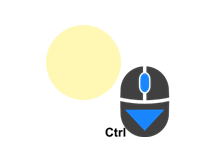
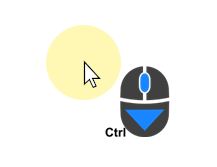
Improve README, add cursors

Changed region(s): [[0.3594, 0.3593, 0.47, 0.5389]]

diff --git a/README.md b/README.md
@@ -5,7 +5,7 @@ Displays Keystrokes in an overlay window and visualize mouse clicks.
 
 # Features
 
- - Displays special keys (volume up: 🔊⏫) and shortcuts
+ - Displays special keys (e.g. volume up: 🔊) and shortcuts
  - Visually indicate mouse cursor position
  - Visually indicate pressed buttons
  - Click Through
@@ -53,7 +53,6 @@ Requirements: Windows 10
 	<img src="https://raw.githubusercontent.com/Phaiax/Key-n-Stroke/master/Screenshots/settings.png">
 </a>
 
-2021-03-01: I've bought a certificate. An update is on the way.
 
 ## Releases
 
@@ -81,12 +80,11 @@ This app is Open Source. If you miss a feature, write an issue or go for it and 
 
 # Donations and Financial
 
-You can donate via <a href="https://www.paypal.me/phaiax">paypal.me/phaiax</a>, send Bitcoins (`1JWER55pheUeJzaUcqaYwP8ZaGe5C16Rp9`) or Stellar Lumens (`phaiax*keybase.io`) [^1]
-
-[^1]: You can verify the wallet addresses cryptographically on <a href="https://keybase.io/phaiax">keybase.io/phaiax</a>. Add the message "pkfs" or "keynstroke" to the payment so I can associate it with this project. After funds for the next six years of developer certificates are raised (which I assume will never happen), I will use any additional funds to buy and eat icecream for myself and anyone I like.
+You can donate via <a href="https://www.paypal.me/phaiax">paypal.me/phaiax</a>, send Bitcoins (`1JWER55pheUeJzaUcqaYwP8ZaGe5C16Rp9`) or Stellar Lumens (`phaiax*keybase.io`).  You can verify the wallet addresses cryptographically on <a href="https://keybase.io/phaiax">keybase.io/phaiax</a>. Add the message "pkfs" or "keynstroke" to the payment so I can associate it with this project. After funds for the next six years of developer certificates are raised (which I assume will never happen), I will use any additional funds to buy and eat icecream for myself and anyone I like.
 
 Until version v0.3.1 this app showed an [ugly security dialog](https://raw.githubusercontent.com/Phaiax/Key-n-Stroke/master/Screenshots/Smartscreen1.png). To fix this, I bought a validated security certificate from <a href="http://www.certum.eu/certum/cert,offer_en_open_source_cs.xml">Certum</a>. I said that if someone funds at least three years of certification (€ 75.00), I will use that money to buy a new certificate each year and implement a secure autoupdater. It's not that much, but I started anyway :smile: Here is the list of donations for full transparency: (three as of May 2021)
 
+| Date       | Amount | From             |
 |------------|--------|------------------|
 | 2021-03-05 | €11.14 | Heitor K. M. M.  |
 | 2020-05-17 | € 5    | Marek S.         |
